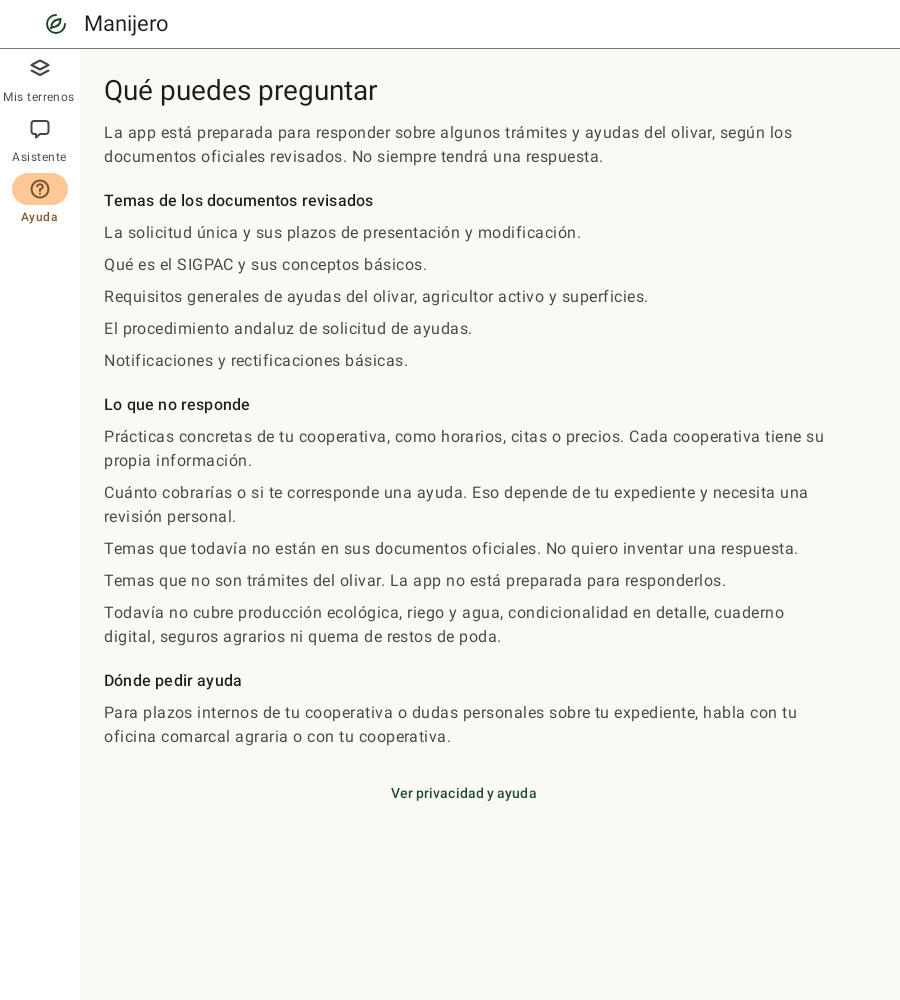
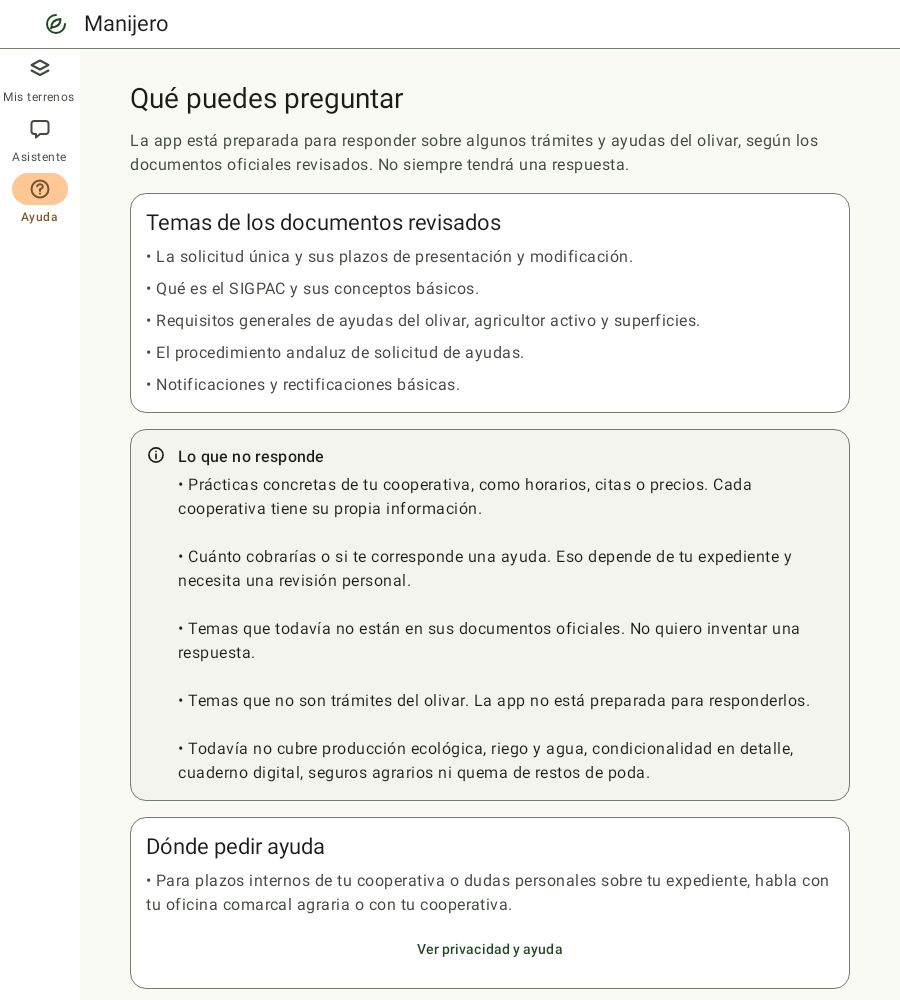
test: refresh screenshot baselines

Changed region(s): [[0.1244, 0.062, 0.9022, 0.806], [0.1556, 0.837, 0.9022, 0.961]]

diff --git a/docs/specs/help_privacy_refresh.appendix.md b/docs/specs/help_privacy_refresh.appendix.md
@@ -140,13 +140,27 @@ Planning and verification detail for [`help_privacy_refresh.md`](help_privacy_re
 - Manual device route/scroll and accessibility checks remain outstanding. This screenshot change
   does not establish feature acceptance.
 
+### 2026-10-25 — user-requested full screenshot refresh
+
+- After confirming the two shell/chat mismatches were already documented in accepted prior-feature
+  evidence, re-recorded the full 34-frame Desktop and 30-frame Android host suites in a separate
+  screenshot update. The run passed all 64 captures.
+- The refreshed tracked baselines are `app_shell_help_rail_light`, `app_shell_lands_rail_dark`, and
+  `chat_clarification_light` on both hosts, plus `land_list_light` on both hosts and
+  `land_list_light_phone` on Desktop. The 24 dedicated Help/Privacy goldens are added on both hosts.
+  Every changed image was opened and reviewed; no remaining screenshot mismatch was observed.
+- `./gradlew :shared:verifyScreenshots` — PASS on Desktop and Android after the refresh.
+- The full-suite refresh updates previously mismatching baselines; it does not mean the Help/Privacy
+  product code changed Lands or Chat. Manual device, route/scroll, keyboard/focus, screen-reader and
+  owner checks remain unperformed.
+
 ## Validator checklist
 
 - [ ] Both screens use the shared frame/components and theme tokens; no duplicate insets/bars or new design primitives.
 - [ ] Coverage topics, limits and referral copy remain present and faithful to accepted contract; limits are informational, not a promise, legal claim or color-only status.
 - [ ] Privacy notice retains all accepted local-storage, sent-data, unknown/not-sent facts and exhaustive shared-land-attribute mapping; new land fields are not implied to be sent.
 - [ ] Existing privacy/coverage links, Back behavior and originating-section restoration work; no new route/external link.
-- [ ] Compact, wide, dark and large-text presentation has evidence or explicit limitations; changed images are inspected and unrelated goldens untouched.
+- [ ] Compact, wide, dark and large-text presentation has evidence or explicit limitations; every changed golden is inspected and any out-of-feature baseline refresh is explicitly authorized and documented.
 - [ ] Keyboard/screen-reader/device/owner evidence is reported honestly, never inferred from host screenshots or previews.
 - [ ] Focused checks pass or failures are scoped accurately; diff excludes routing, strings/content, land/API/backend/knowledge/contracts and platform entry points.
 - [ ] `DESIGN.md`, `CONSTRAINTS.md`, screenshot documentation and plan delivery note reflect implementation; status changes only after independent acceptance.

diff --git a/PROGRESS.md b/PROGRESS.md
@@ -30,9 +30,9 @@ Last updated: 2026-10-25.
 
 - The remaining backend citation hardening F1 and stale `knowledge/README.md` citation wording are resolved by `backend_citation_hardening`.
 - Outstanding manual check: the low-digital-confidence comprehension check (owner `chat_accessibility`), now also covering the lands summary/search wording: that `anotado`, `Sin datos` and `x de y` (including a filtered count card that reads label `Terrenos guardados` with the match count) are read as "only what I wrote for the lands I am looking at".
-- Outstanding manual check: human owner sign-off on the thirty-six screenshot images (sixteen app baselines including the two saved-lands search states per host, four board captures, eight gallery captures, and eight shell captures). The mechanism, images, and validator review exist for the Desktop set, the board captures, the gallery captures, the shell captures and the two new search captures (including the five land-list and shell goldens re-recorded by `land_measurement_fields` and the twelve touched by `land_search_and_summary`); product-owner approval does not, and the Android app baselines have not had independent validator review.
+- Outstanding manual check: human owner sign-off on the current 64 screenshot images (34 Desktop and 30 Android host captures). Images are host renders, not real-device or accessibility evidence; product-owner approval is still outstanding.
 - Outstanding manual check for `chat_screen_refresh`: Android/Desktop smoke, TalkBack/keyboard traversal and owner review of the refreshed chat images; its compact-shell send action is below the initial viewport.
-- Outstanding manual check for `lands_screens_refresh`: compact/wide and large-text interaction, keyboard/screen-reader traversal, device smoke, and owner review. The focused command also reports unrelated shell/chat screenshot mismatches; see feature evidence and acceptance record.
+- Outstanding manual check for `lands_screens_refresh`: compact/wide and large-text interaction, keyboard/screen-reader traversal, device smoke, and owner review. Its previously mismatching shell/chat baselines were refreshed in the later `help_privacy_refresh` screenshot update; see that feature's evidence appendix.
 - Outstanding manual check for `help_privacy_refresh`: Android/Desktop route and link/back restoration, compact/wide scrolling, keyboard/focus and screen-reader traversal, device smoke, and owner visual review. Host screenshot verification is not evidence for these checks.
 
 **Detail on demand**

diff --git a/docs/validations/help_privacy_refresh.md b/docs/validations/help_privacy_refresh.md
@@ -19,11 +19,16 @@ design primitives, or product claims were introduced.
   the environment; the harness printed setup instructions.
 - The accepted [`lands_screens_refresh`](lands_screens_refresh.md) validation establishes that
   `appShellLandsRailDark` and `chatClarificationLight` mismatches predate this feature and are
-  unrelated. They were excluded from this feature's focused checks and left untouched.
+  unrelated. They were excluded from this feature's focused checks. After acceptance, the user
+  explicitly requested a full-suite baseline refresh; the refreshed captures are documented in the
+  feature appendix.
+- Follow-up `./gradlew :shared:verifyScreenshots` — passed all 34 Desktop and 30 Android host
+  captures after the separately committed full-suite recording.
 - `git diff --check` — passed during implementation handoff.
 
 Manual Android/Desktop route and link/back restoration, compact/wide scrolling, device smoke,
 keyboard/focus, screen-reader, and product-owner visual checks were not performed. Host screenshots
 are not evidence for those claims; these limitations remain open and are not acceptance claims.
 
-No relevant security or privacy issue was identified. No commit was created, per user instruction.
+No relevant security or privacy issue was identified. The accepted implementation and screenshot
+refresh were committed separately; see the feature branch history.
